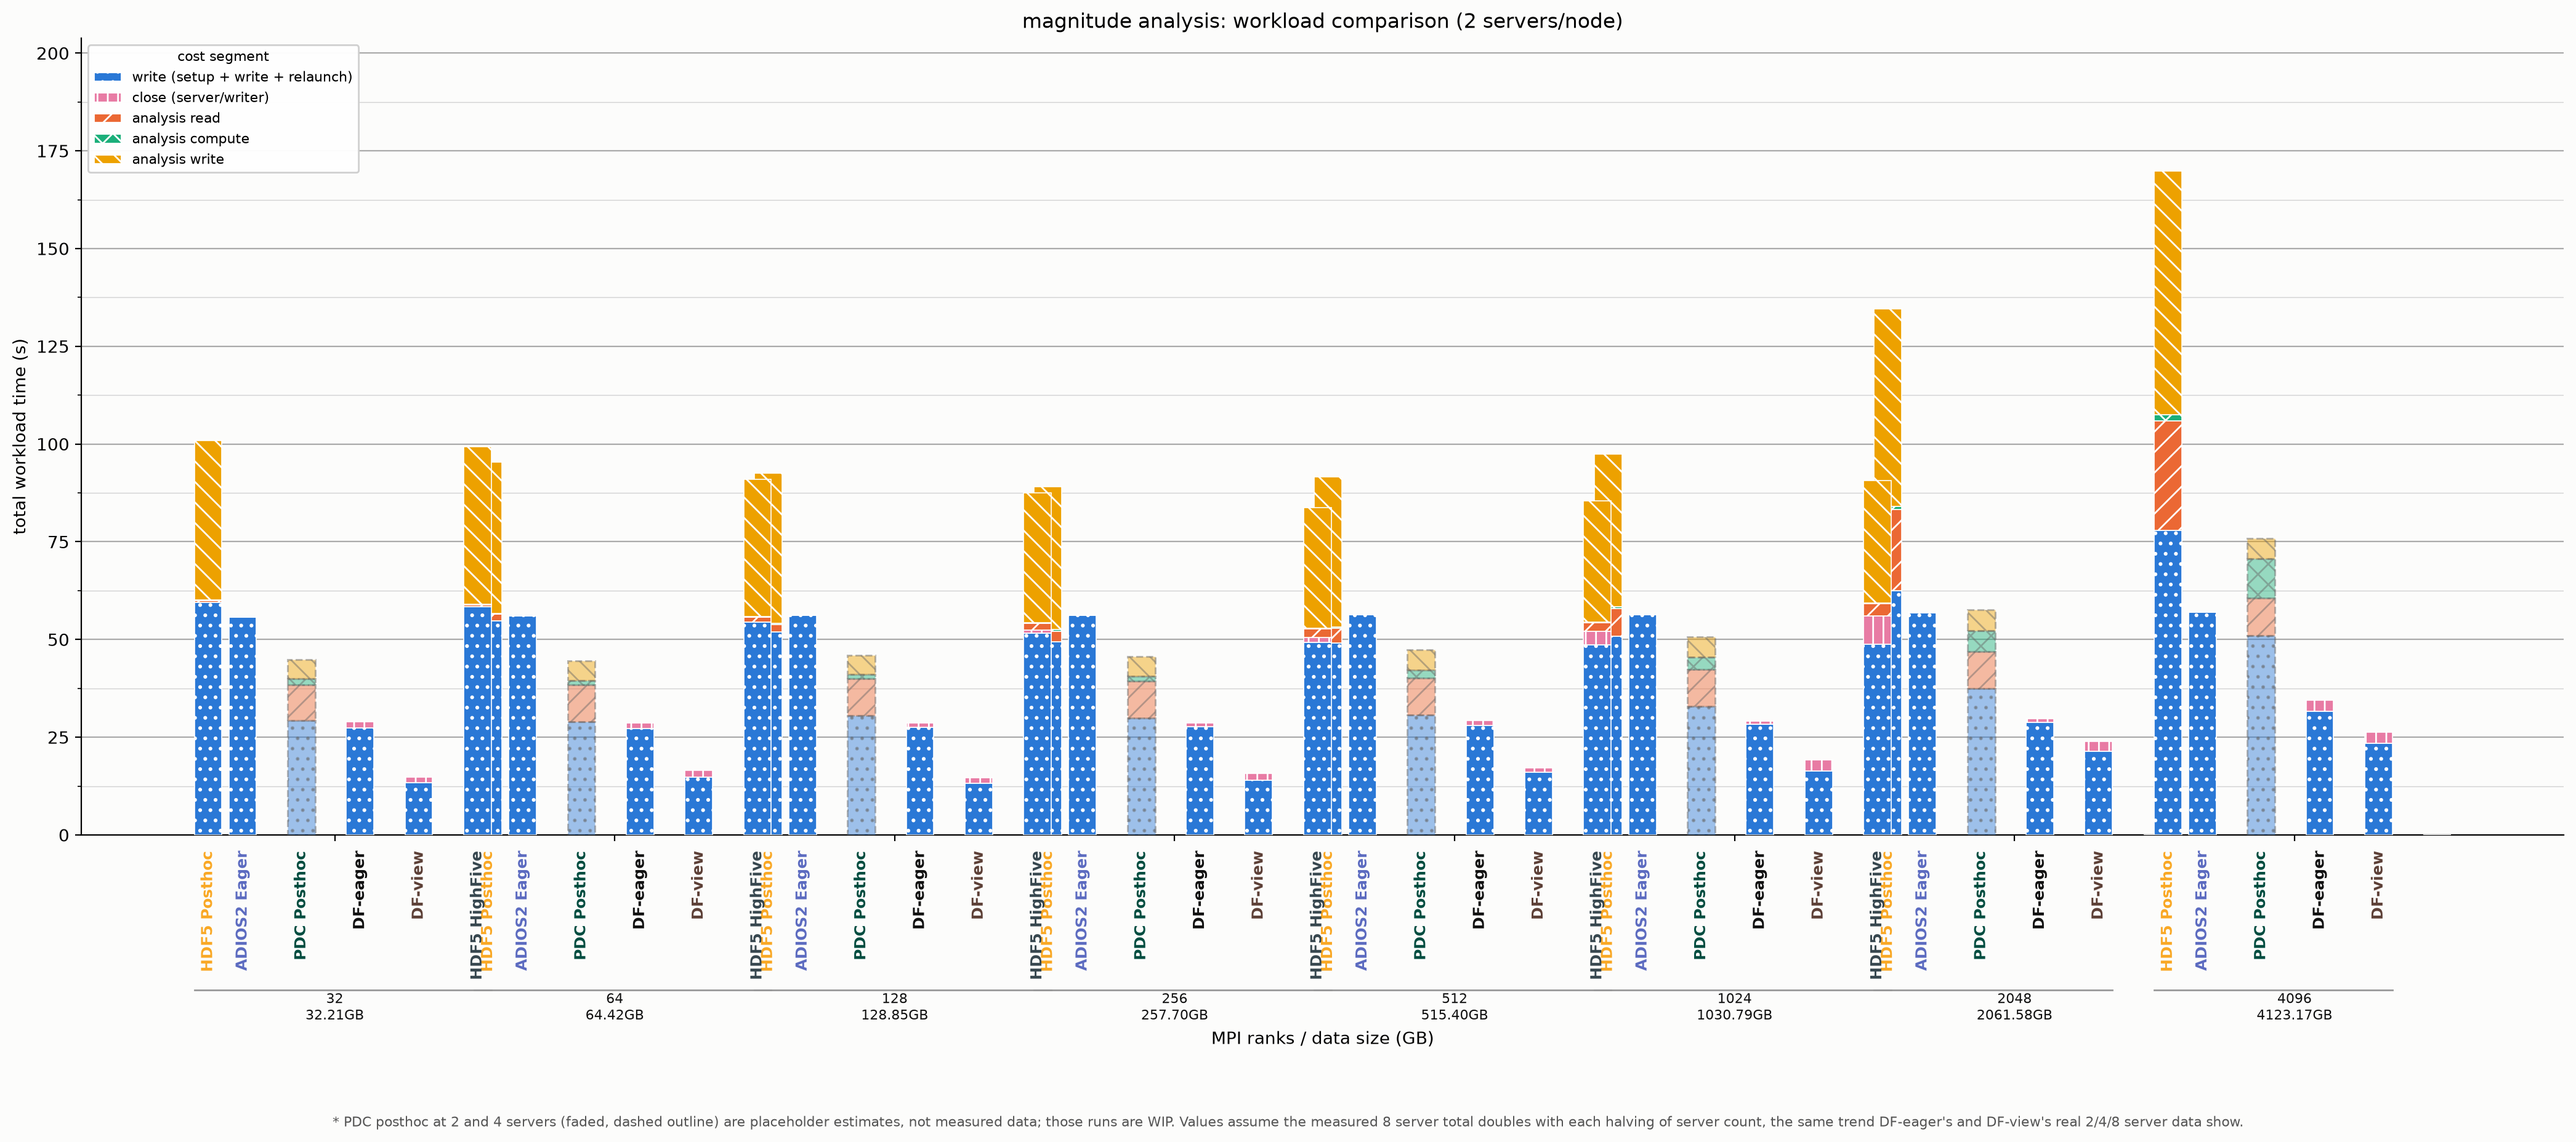
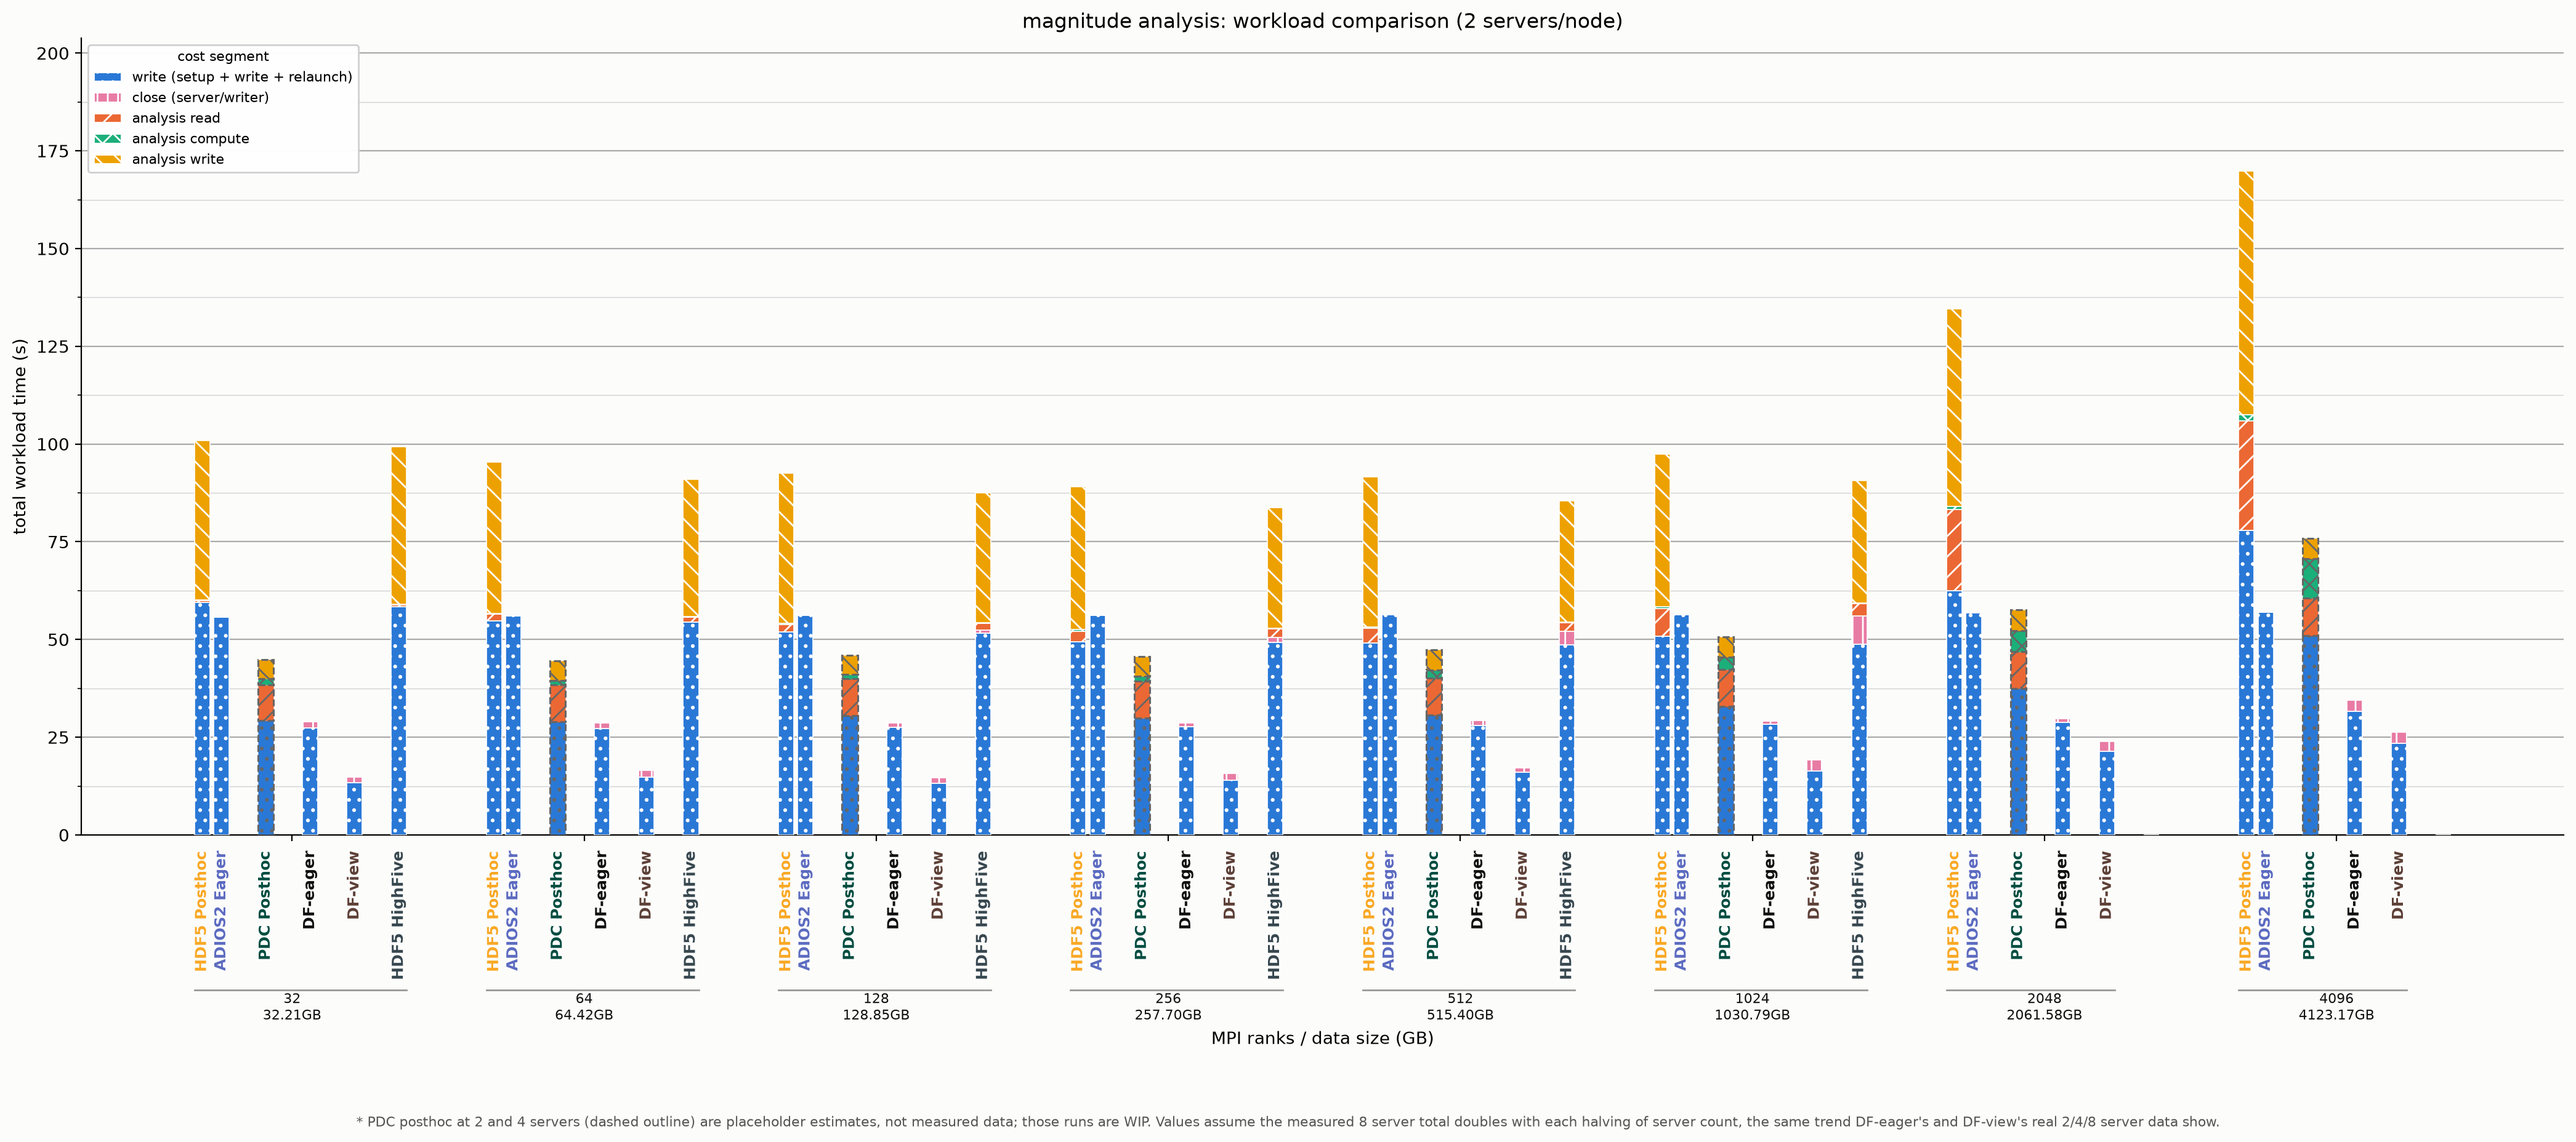
Fix bar-group overlap and remove WIP color-fade in comparison plots
Real bug: slot_width was computed from group_width alone, then
extra_gap was added on top of it for every cluster-boundary gap --
so the actual rendered width (bars + gaps) always exceeded the 1.0
spacing between rank-count groups whenever a chart had multiple
MULTI_SERVER_MODES clusters, causing bars to visually spill into the
neighboring group. Fixed in both plot_magnitude_comparison.py and
plot_vpicio_comparison.py by solving for slot_width up front so
n_bars slots + n_transitions gaps sum to exactly group_width,
regardless of how many clusters or how wide the gap ratio is.
Also dropped the redundant second "Strong" line from each
MULTI_SERVER_MODES bracket label (single line needs less clearance,
so the fix doesn't have to fight as wide a gap requirement).

Also: WIP placeholder bars (PDC posthoc's synthesized 2/4-server
estimates) no longer render at reduced alpha -- the faded fill made
them look like a different color entirely, when the segment color is
supposed to always mean the same cost category whether or not the
underlying data is a real measurement. The dashed outline + "*"
caption are the only remaining WIP signal now.

Claude-Session: https://claude.ai/code/session_018SQY4wo4xQPFn1NkY3KKc6

diff --git a/pdc_helper_scripts/plots/plot_magnitude_comparison.py b/pdc_helper_scripts/plots/plot_magnitude_comparison.py
@@ -182,14 +182,16 @@ MODE_COLOR = {
 }
 # PDC posthoc only has a real measurement at 8 servers today (see module
 # docstring). Per explicit request, its 2/4-server bars are still drawn,
-# as faded, dashed-outline WIP placeholders scaled from the real
-# 8-server segments, assuming the same "time roughly doubles each time
-# server count halves" trend DF-eager's and DF-view's own real 2/4/8
-# data already show -- these are NOT measured data, and are marked as
-# such (faded fill, dashed outline, "*" label, and a caption under the
-# x-axis) so they never read as real at a glance.
+# as dashed-outline WIP placeholders scaled from the real 8-server
+# segments, assuming the same "time roughly doubles each time server
+# count halves" trend DF-eager's and DF-view's own real 2/4/8 data
+# already show -- these are NOT measured data, and are marked as such
+# (dashed outline, "*" label, and a caption under the x-axis, deliberately
+# NOT a faded/different color -- segment color always means the same cost
+# category whether or not the bar is WIP) so they never read as real at a
+# glance without implying the underlying cost segments are somehow
+# different in kind.
 WIP_POSTHOC_SERVERS = {4: 2.0, 2: 4.0}
-WIP_ALPHA = 0.45
 # Modes with a real per-server-count sweep on disk, each getting its own
 # 2/4/8-server bars + its own linear-fit line, in this left-to-right
 # order. "prefix" names the bar label ("DF-eager, 2 servers", ...) and
@@ -205,9 +207,9 @@ WIP_ALPHA = 0.45
 # WIP_POSTHOC_SERVERS); the bracket/trend-line treatment is otherwise
 # identical to DF-eager/DF-view, per explicit request.
 MULTI_SERVER_MODES = {
-    "posthoc": {"bracket_label": "PDC Posthoc\nStrong", "colors": ["#004D40", "#00897B", "#4DB6AC"]},
-    "eager": {"bracket_label": "DF-eager\nStrong", "colors": ["#111111", "#7D3C98", "#B03A2E"]},
-    "lazy": {"bracket_label": "DF-view\nStrong", "colors": ["#5D4037", "#AD1457", "#827717"]},
+    "posthoc": {"bracket_label": "PDC Posthoc", "colors": ["#004D40", "#00897B", "#4DB6AC"]},
+    "eager": {"bracket_label": "DF-eager", "colors": ["#111111", "#7D3C98", "#B03A2E"]},
+    "lazy": {"bracket_label": "DF-view", "colors": ["#5D4037", "#AD1457", "#827717"]},
 }
 TREND_COLOR = "#52514e"
 
@@ -480,18 +482,28 @@ def main():
     n_groups = len(all_ranks)
     n_bars = len(series)
     group_width = 0.74
-    slot_width = group_width / max(n_bars, 1)
-    bar_width = slot_width * 0.8
-    x = np.arange(n_groups)
 
     # Extra horizontal gap at cluster boundaries (single-bar modes / one
     # MULTI_SERVER_MODES entry's 3 bars / the next) -- without this, a
     # bracket header's text is wider than its own narrow 3-bar span and
-    # collides with the neighboring cluster's header.
+    # collides with the neighboring cluster's header. GAP_RATIO is
+    # expressed in slot_widths, but slot_width itself has to be solved
+    # for accounting for the gaps too: n_bars slots + n_transitions gaps
+    # must sum to group_width, not group_width plus however many gaps
+    # happen to be needed -- otherwise more clusters (or a wider
+    # GAP_RATIO) silently pushes the whole group past the 1.0 spacing
+    # between rank-count groups and bars start overlapping their
+    # neighboring group's bars instead of just each other.
     def cluster_of(key):
         return key[0] if key[0] in MULTI_SERVER_MODES else "single"
 
-    extra_gap = slot_width * 0.7
+    n_transitions = sum(1 for a, b in zip(series, series[1:]) if cluster_of(a) != cluster_of(b))
+    GAP_RATIO = 1.3
+    slot_width = group_width / max(n_bars + n_transitions * GAP_RATIO, 1)
+    bar_width = slot_width * 0.8
+    x = np.arange(n_groups)
+
+    extra_gap = slot_width * GAP_RATIO
     offsets, pos, prev_cluster = [], 0.0, None
     for key in series:
         c = cluster_of(key)
@@ -515,14 +527,17 @@ def main():
             heights = np.array([per_series[key].get(n_ranks, ({}, 0.0))[0].get(seg, 0.0) for n_ranks in all_ranks])
             if not np.any(heights > 0):
                 continue
-            # WIP placeholder bars (see WIP_POSTHOC_SERVERS): faded fill +
-            # dashed gray outline instead of the normal white edge, so they
-            # never read as real measurements at a glance.
+            # WIP placeholder bars (see WIP_POSTHOC_SERVERS): dashed gray
+            # outline instead of the normal white edge, so they never read
+            # as real measurements at a glance -- full fill opacity/color,
+            # same as real bars, so the segment color itself always means
+            # the same cost category regardless of WIP status (the footnote
+            # + dashed edge are the only WIP signal, not a faded color).
             ax.bar(
                 x + offset, heights, bar_width, bottom=bottoms,
                 color=SEGMENT_COLOR[seg], hatch=SEGMENT_HATCH[seg],
                 edgecolor="#666666" if wip else "white", linewidth=1.1 if wip else 0.6,
-                linestyle="--" if wip else "-", alpha=WIP_ALPHA if wip else 1.0, zorder=3,
+                linestyle="--" if wip else "-", zorder=3,
             )
             bottoms += heights
         for gi, n_ranks in enumerate(all_ranks):
@@ -646,7 +661,7 @@ def main():
     if any(is_wip(k) for k in series):
         fig.text(
             0.5, -0.06,
-            "* PDC posthoc at 2 and 4 servers (faded, dashed outline) are placeholder estimates, not measured "
+            "* PDC posthoc at 2 and 4 servers (dashed outline) are placeholder estimates, not measured "
             "data; those runs are WIP. Values assume the measured 8 server total doubles with each halving of "
             "server count, the same trend DF-eager's and DF-view's real 2/4/8 server data show.",
             ha="center", va="top", fontsize=8, color="#555555", wrap=True,

diff --git a/pdc_helper_scripts/plots/plot_vpicio_comparison.py b/pdc_helper_scripts/plots/plot_vpicio_comparison.py
@@ -362,14 +362,24 @@ def main():
     n_groups = len(all_ranks)
     n_bars = len(series)
     group_width = 0.74
-    slot_width = group_width / max(n_bars, 1)
-    bar_width = slot_width * 0.8
-    x = np.arange(n_groups)
 
+    # slot_width has to be solved for accounting for the cluster-boundary
+    # gaps too: n_bars slots + n_transitions gaps must sum to group_width,
+    # not group_width plus however many gaps happen to be needed --
+    # otherwise more clusters (or a wider GAP_RATIO) silently pushes the
+    # whole group past the 1.0 spacing between rank-count groups and bars
+    # start overlapping their neighboring group's bars instead of just
+    # each other. Same fix as plot_magnitude_comparison.py's identical bug.
     def cluster_of(key):
         return key[0] if key[0] in MULTI_SERVER_MODES else "single"
 
-    extra_gap = slot_width * 0.7
+    n_transitions = sum(1 for a, b in zip(series, series[1:]) if cluster_of(a) != cluster_of(b))
+    GAP_RATIO = 2.5
+    slot_width = group_width / max(n_bars + n_transitions * GAP_RATIO, 1)
+    bar_width = slot_width * 0.8
+    x = np.arange(n_groups)
+
+    extra_gap = slot_width * GAP_RATIO
     offsets, pos, prev_cluster = [], 0.0, None
     for key in series:
         c = cluster_of(key)
